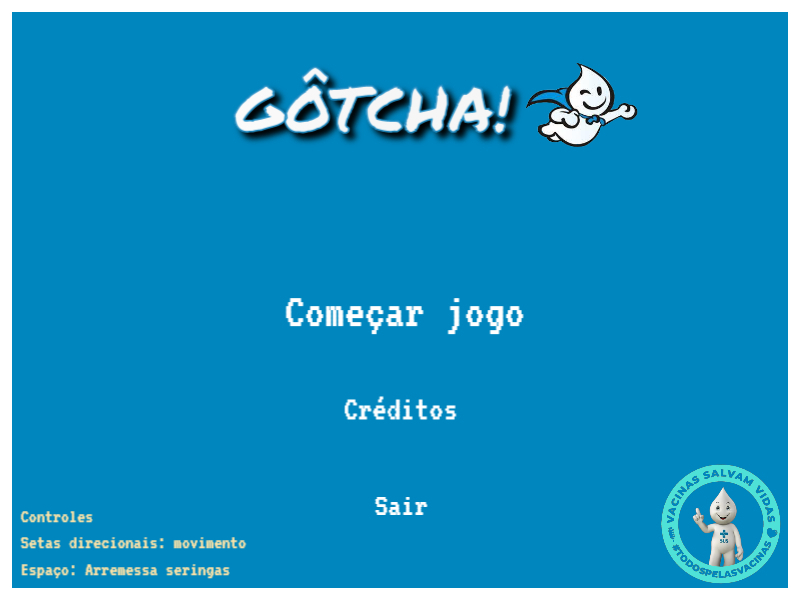
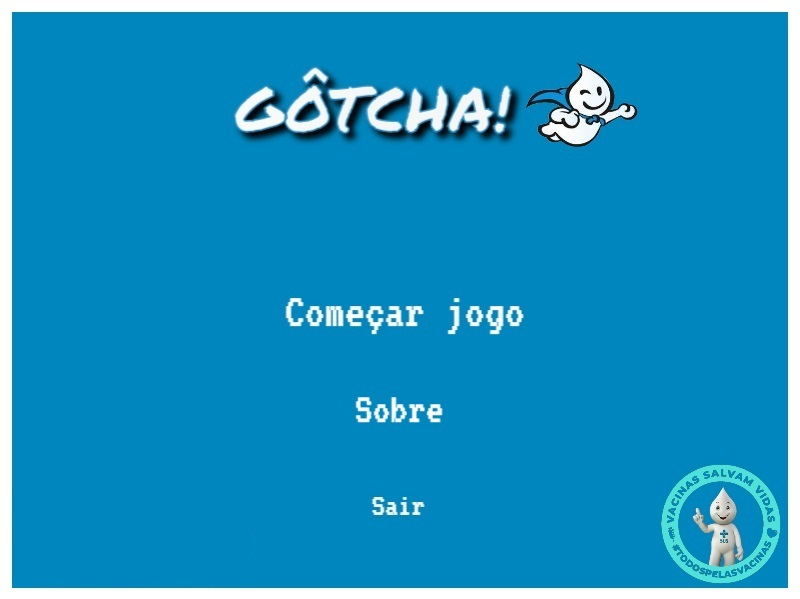
v1.0

diff --git a/main.py b/main.py
@@ -14,7 +14,7 @@ background = pg.image.load('imagens/brasilia2.jpg')
 # menu do jogo
 menu_image = pg.image.load('imagens/menu.jpeg')
 menu_arrow = pg.image.load('imagens/menu_seta.png')
-menu_credits = pg.image.load('imagens/creditos.jpeg')
+menu_about = pg.image.load('imagens/sobre.jpeg')
 
 # imagens auxiliares
 quadro_fundo = pg.image.load('imagens/quadro_fundo.jpg')
@@ -249,7 +249,7 @@ while game_run:
     # menu inicial
     exit_game = False
     menu = True
-    show_credits = False
+    show_about = False
     while menu:
         screen.fill((255, 255, 255))
         screen.blit(menu_image, (0, 0))
@@ -282,7 +282,7 @@ while game_run:
                         menu = False
                     if arrow_Y == 1:
                         mixer.Sound('sons/sair_creditos.wav').play()
-                        show_credits = True
+                        show_about = True
                     if arrow_Y == 2:
                         mixer.Sound('sons/sair_creditos.wav').play()
                         pg.time.delay(1000)
@@ -290,11 +290,12 @@ while game_run:
                         exit_game = True
                         game_run = False
 
-        while show_credits:
-            screen.blit(menu_credits, (100, 100))
-            for credits_event in pg.event.get():
-                if credits_event.type == pg.KEYDOWN:
-                    show_credits = False
+        # Menu Sobre
+        while show_about:
+            screen.blit(menu_about, (100, 100))
+            for about_event in pg.event.get():
+                if about_event.type == pg.KEYDOWN:
+                    show_about = False
             pg.display.update()
 
         # limita a seta
